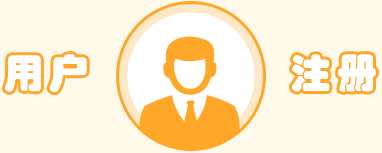
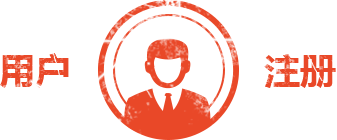
注册、登陆UI

Changed region(s): [[0.2671, 0.0, 0.7122, 1.0], [0.7418, 0.3143, 1.0, 0.6286], [0.0, 0.3143, 0.2374, 0.6286]]

diff --git a/app/views/login.html b/app/views/login.html
@@ -1,17 +1,18 @@
-<div class="bg-yellow">
-    <form id="login" class="margin-0 padding-l-1 padding-r-1 padding-b-2 padding-t-2 ft-grey" autocomplete="on" ng-submit="toLogin(user)">
+<div class="bg-white padding-l-1 padding-r-1 padding-t-2 text-center">
+    <img src="/images/login-1.png" width="65%">
+    <form class="login margin-0 padding-l-1 padding-r-1 padding-b-2 padding-t-2 ft-grey text-left" autocomplete="on" ng-submit="toLogin(user)">
         <p ng-show="msg" class="ft-red"><i class="fa fa-times-circle"></i>&nbsp;&nbsp;{{msg}}</p>
-        <p class="margin-0">
-            <label for="username" class="uname" data-icon="u" > 账户 </label>
-            <input id="username" class="border-grey" name="username" required="required" type="text" ng-model="user.account" placeholder="用户名、邮箱、手机号"/>
-        </p>
-        <p class="margin-0">
-            <label for="password" class="youpasswd" data-icon="p"> 密码 </label>
-            <input id="password" class="border-grey" name="password" ng-model="user.password" required="required" type="password"/>
-        </p>
+        <div class="margin-0 border-grey border-ra-0p5 margin-b-1p5">
+            <label for="username"> 账户 </label>
+            <input id="username" class="border-grey" name="username" required="required" type="text" ng-model="user.account" placeholder="用户名/手机号/邮箱"/>
+        </div>
+        <div class="margin-0 border-grey border-ra-0p5 margin-b-1p5">
+            <label for="password"> 密码 </label>
+            <input id="password" class="border-grey" name="password" ng-model="user.password" required="required" type="password" placeholder="输入登录密码"/>
+        </div>
         <p class="keeplogin margin-0">
             <input type="checkbox" name="loginkeeping" id="loginkeeping" class="u-pull-left" ng-model="user.password" value="loginkeeping" />
-            <label for="loginkeeping">记住密码</label>
+            <span for="loginkeeping">记住密码</span>
         </p>
         <p class="login margin-0 text-center">
             <input type="submit" class="button button-primary column" value="登录" />

diff --git a/app/styles/login-register.less b/app/styles/login-register.less
@@ -7,18 +7,22 @@
   border-top-right-radius: .5rem;
   border-bottom-right-radius: .5rem;
 }
-.register input[type="text"],
-.register input[type="password"],
-.register input[type="email"],
-.register input[type="tel"] {
-  width: 75%;
-  margin-bottom: 0;
-  box-sizing: border-box;
-  border: none;
-  // box-shadow: 0 0.2rem 0.2rem #ebebeb inset;
-  border-top-right-radius: .5rem;
-  border-bottom-right-radius: .5rem;
+.login,
+.register {
+  input[type="text"],
+  input[type="password"],
+  input[type="email"],
+  input[type="tel"] {
+    width: 75%;
+    margin-bottom: 0;
+    box-sizing: border-box;
+    border: none;
+    // box-shadow: 0 0.2rem 0.2rem #ebebeb inset;
+    border-top-right-radius: .5rem;
+    border-bottom-right-radius: .5rem;
+  }
 }
+.login,
 .register {
   label {
     width: 25%;
@@ -28,10 +32,8 @@
     text-align: center;
     height: 38px;
     line-height: 38px;
-    background-color: #dfdfdf;
-    // box-shadow: 0 0.1rem 0.2rem #fff inset;
-    border-top-left-radius: .5rem;
-    border-bottom-left-radius: .5rem;
+    // border-top-left-radius: .5rem;
+    // border-bottom-left-radius: .5rem;
   }
 }
 .getCaptcha {
@@ -46,7 +48,7 @@
     border: 0.1rem solid #ddd;
   }
   label {
-    background-color: #fff9e9;
+    // background-color: #fff9e9;
     border: none;
     box-shadow: none;
     line-height: 19px;

diff --git a/app/views/register.html b/app/views/register.html
@@ -1,5 +1,5 @@
-<div class="bg-yellow padding-l-1 padding-r-1 padding-t-1 text-center">
-  <img src="/images/signup-3.png" width="50%">
+<div class="bg-white padding-l-1 padding-r-1 padding-t-1 text-center">
+  <img src="/images/signup-3.png" width="65%">
   <form class="register margin-0 padding-b-2 padding-t-1 ft-grey" name="registerForm" autocomplete="on" ng-submit="signUp(user);">
     <div class="margin-0 border-grey border-ra-0p5 margin-b-1p5">
       <label for="name" class="border-grey-right"><small>用户名</small>

diff --git a/app/scripts/services/register-yeepay.js b/app/scripts/services/register-yeepay.js
@@ -10,5 +10,5 @@
 angular.module('p2pSiteMobApp')
   .service('registerYeepay', function (restmod, DEFAULT_DOMAIN, $stateParams) {
     // AngularJS will instantiate a singleton by calling "new" on this function
-    return restmod.model(DEFAULT_DOMAIN + '/users/' + $stateParams.userId + '/yeepay/register');
+    return restmod.model(DEFAULT_DOMAIN + '/users/' + $stateParams.userId + '/yeepayRegister');
   });
